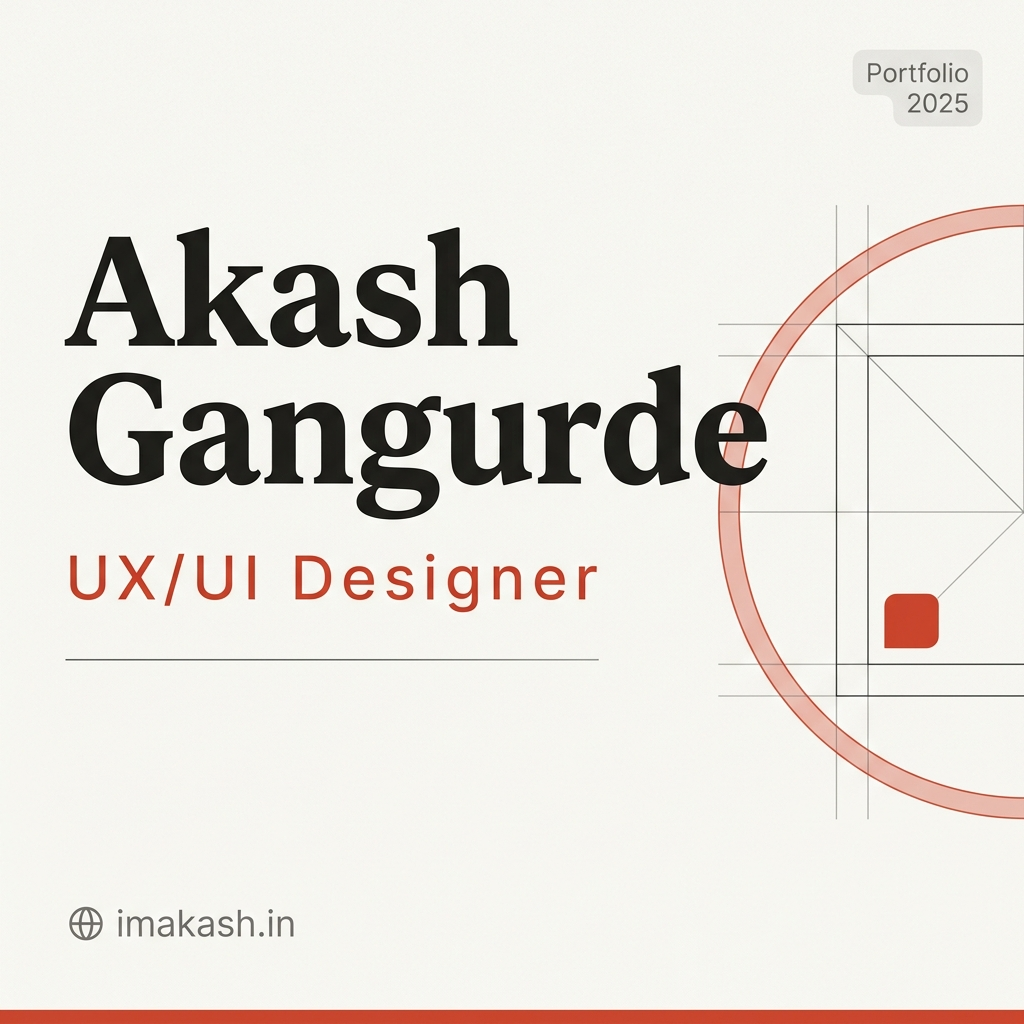
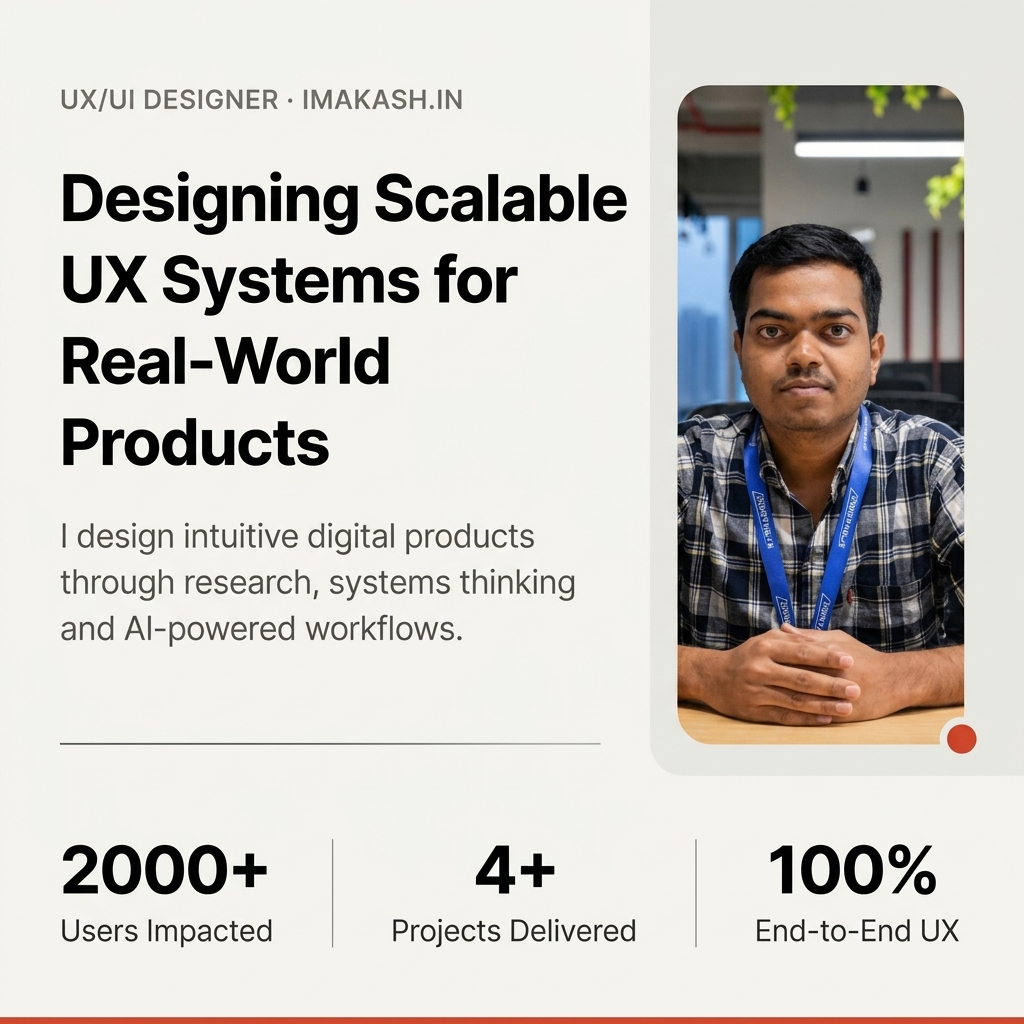
feat: upgrade OG image with portrait and hero content
- New 1200x630 OG image featuring Akash portrait photo
- Layout: bold headline left, portrait right, stats bottom
- Content: Designing Scalable UX Systems for Real-World Products
- Stats: 2000+ Users Impacted, 4+ Projects Delivered, 100% End-to-End UX
- Sync og:title, og:description, twitter tags to match image

diff --git a/index.html b/index.html
@@ -9,7 +9,7 @@
 
   <!-- Primary Meta -->
   <title>Akash Gangurde – UX/UI Designer Portfolio</title>
-  <meta name="description" content="UX/UI Designer crafting thoughtful, user-centered digital experiences. Specialising in product design, interaction design, and design systems." />
+  <meta name="description" content="Designing scalable UX systems for real-world products. I design intuitive digital products through research, systems thinking and AI-powered workflows." />
   <meta name="keywords" content="UX designer, UI designer, product designer, UX portfolio, interaction design, design systems, Akash Gangurde" />
   <meta name="author" content="Akash Gangurde" />
   <meta name="robots" content="index,follow" />
@@ -18,14 +18,14 @@
   <!-- Open Graph -->
   <meta property="og:type" content="website" />
   <meta property="og:site_name" content="Akash Gangurde" />
-  <meta property="og:title" content="Akash Gangurde – UX/UI Designer" />
-  <meta property="og:description" content="UX/UI Designer crafting thoughtful, user-centered digital experiences. Specialising in product design, interaction design, and design systems." />
+  <meta property="og:title" content="Akash Gangurde — Designing Scalable UX Systems" />
+  <meta property="og:description" content="I design intuitive digital products through research, systems thinking and AI-powered workflows. 2000+ users impacted · 4+ projects delivered." />
   <meta property="og:image" content="https://www.imakash.in/og/og-default.png" />
   <meta property="og:image:secure_url" content="https://www.imakash.in/og/og-default.png" />
   <meta property="og:image:type" content="image/png" />
   <meta property="og:image:width" content="1200" />
   <meta property="og:image:height" content="630" />
-  <meta property="og:image:alt" content="Akash Gangurde – UX/UI Designer portfolio preview" />
+  <meta property="og:image:alt" content="Akash Gangurde – UX/UI Designer: Designing Scalable UX Systems for Real-World Products" />
   <meta property="og:url" content="https://www.imakash.in/" />
   <meta property="og:locale" content="en_US" />
 
@@ -33,10 +33,10 @@
   <meta name="twitter:card" content="summary_large_image" />
   <meta name="twitter:site" content="@imakash_in" />
   <meta name="twitter:creator" content="@imakash_in" />
-  <meta name="twitter:title" content="Akash Gangurde – UX/UI Designer" />
-  <meta name="twitter:description" content="UX/UI Designer crafting thoughtful, user-centered digital experiences. Specialising in product design, interaction design, and design systems." />
+  <meta name="twitter:title" content="Akash Gangurde — Designing Scalable UX Systems" />
+  <meta name="twitter:description" content="I design intuitive digital products through research, systems thinking and AI-powered workflows. 2000+ users impacted · 4+ projects delivered." />
   <meta name="twitter:image" content="https://www.imakash.in/og/og-default.png" />
-  <meta name="twitter:image:alt" content="Akash Gangurde – UX/UI Designer portfolio preview" />
+  <meta name="twitter:image:alt" content="Akash Gangurde – UX/UI Designer: Designing Scalable UX Systems for Real-World Products" />
 
   <!-- Microsoft Clarity Tracking Code -->
   <script type="text/javascript">
